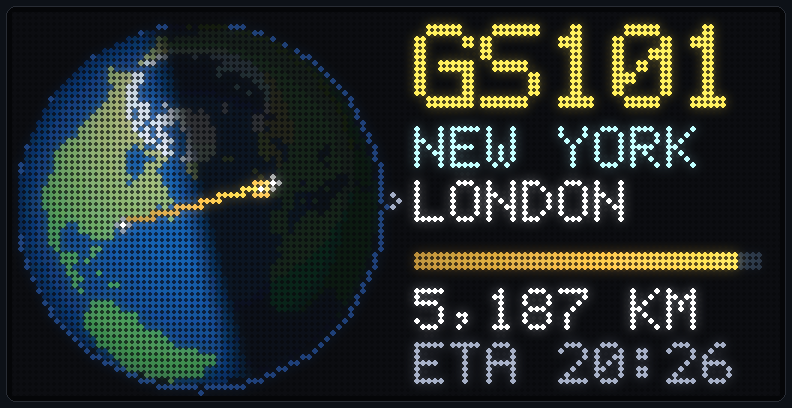
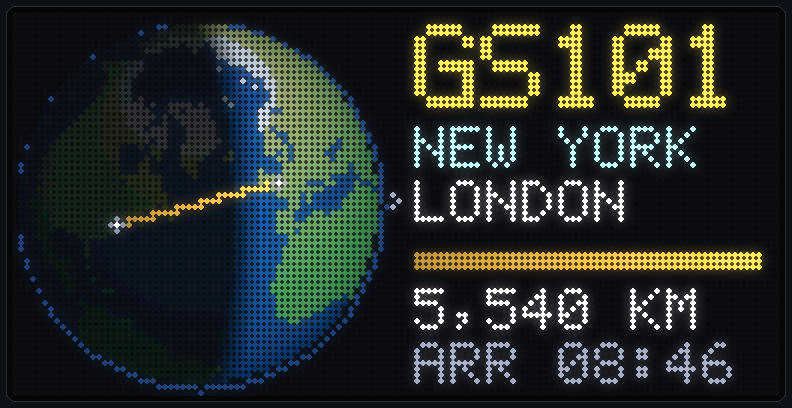
Docs: 5.0 recorded from the board
The showcase GIF (now with the globe after the landing), the clips and
stills re-cut for the longer timeline, a globe still, and the web page
shots with a Spotter tab.

diff --git a/tools/webui_preview.py b/tools/webui_preview.py
@@ -4,7 +4,7 @@ Serve the board's web page on this computer with made-up data, for
 screenshots and for working on the page without a board.
 
   python tools/webui_preview.py                 # http://127.0.0.1:8765/
-  python tools/webui_preview.py --shots         # docs/webui-desktop.png, webui-alerts.png, webui-phone.png
+  python tools/webui_preview.py --shots         # docs/webui-desktop.png, -alerts, -spotter, -phone
 
 The page is firmware/web/index.html with the brand mark filled in, exactly as
 the board serves it. The API answers with
@@ -38,7 +38,7 @@ def page_html():
 
 
 CONFIG = {
-    'tar1090_host': '', 'center_lat': 51.47, 'center_lon': -0.4543, 'home_lat': 0, 'home_lon': 0,
+    'tar1090_host': '', 'center_lat': 51.47, 'center_lon': -0.4543, 'home_lat': 51.5007, 'home_lon': -0.1246,
     'radius_km': 20, 'min_altitude_ft': 100, 'display_brightness': 128,
     'text_color_r': 255, 'text_color_g': 255, 'text_color_b': 255,
     'display_nearest_only': False, 'display_border': True, 'show_flight_number_with_logo': True,
@@ -46,14 +46,16 @@ CONFIG = {
     'screen_facing': 'S', 'display_flip': False, 'night_mode_enabled': True,
     'night_start_minutes': 1320, 'night_end_minutes': 420, 'night_brightness': 38, 'utc_offset_minutes': 0,
     'fetch_interval_seconds': 30, 'local_fetch_interval_seconds': 5, 'display_cycle_seconds': 10,
-    'card_lead_seconds': 120, 'interlude_seconds': 15, 'screens': 31,
+    'card_lead_seconds': 120, 'interlude_seconds': 15, 'screens': 95, 'route_cities': True,
     'aeroapi_cache_ttl_seconds': 1800, 'aeroapi_fail_cache_ttl_seconds': 300,
     'opensky_client_id': '', 'opensky_client_secret': '', 'opensky_priority': False,
     'use_community_feeds': True, 'aeroapi_key': '', 'night_follow_sun': True,
-    'ntfy_topic': 'glideslope-k3x9q2m7wt', 'notify_mask': 63,
+    'ntfy_topic': 'glideslope-k3x9q2m7wt', 'ntfy_token': '', 'notify_mask': 127,
+    'overhead_km': 2.0, 'overhead_all': False, 'watchlist': 'G-CIVA, B74*, A388, RRR*',
+    'mqtt_host': '192.168.1.20', 'mqtt_port': 1883, 'mqtt_user': 'glideslope', 'mqtt_pass': '***',
 }
 STATUS = {
-    'version': 'v4.0.0', 'built': 'Oct  9 2026 10:00:00', 'uptime_s': 86400, 'last_reset': 'power on',
+    'version': 'v5.0.0', 'built': 'Oct 19 2026 10:00:00', 'uptime_s': 86400, 'last_reset': 'power on',
     'heap_free': 84000, 'heap_max_block': 55000, 'heap_min_free': 18000, 'display_frames': 1700000,
     'web_requests': 5200, 'metar': 'METAR EGLL 071650Z 36011KT 9999 FEW030 12/06 Q1012 NOSIG',
     'airport': 'EGLL', 'airport_name': 'HEATHROW', 'airport_lat': 51.47, 'airport_lon': -0.4543, 'airport_pack': False,
@@ -181,6 +183,7 @@ def main():
     threading.Thread(target=srv.serve_forever, daemon=True).start()
     shoot(url, str(ROOT / 'docs' / 'webui-desktop.png'), 1280, 820, 1)
     shoot(url + '#alerts', str(ROOT / 'docs' / 'webui-alerts.png'), 1280, 820, 1)
+    shoot(url + '#spotter', str(ROOT / 'docs' / 'webui-spotter.png'), 1280, 820, 1)
     phone = ROOT / 'docs' / 'webui-phone.png'
     shoot(url + 'phone', str(phone), 600, 1100, 2)
     from PIL import Image

diff --git a/tools/record_shots.py b/tools/record_shots.py
@@ -30,8 +30,8 @@ ROOT = Path(__file__).resolve().parent.parent
 DOCS = ROOT / 'docs'
 
 # Showcase times (s), matching NeoMatrixDisplay::stepShowcase.
-CLIPS = {'flyacross.gif': (0.0, 2.4), 'landing.gif': (9.0, 12.6), 'takeoff.gif': (39.5, 42.9)}
-STILLS = {'arrivals.png': 24.5, 'weather.png': 29.5, 'stats.png': 34.3, 'holding.png': 38.5}
+CLIPS = {'flyacross.gif': (0.0, 2.4), 'landing.gif': (9.0, 12.6), 'takeoff.gif': (44.5, 47.9)}
+STILLS = {'globe.png': 19.5, 'arrivals.png': 29.0, 'weather.png': 34.0, 'stats.png': 39.3, 'holding.png': 43.5}
 
 
 def save_gif(frames, path, fps=20):

diff --git a/README.md b/README.md
@@ -53,22 +53,25 @@ repository (see [Airline logos](#airline-logos)).
 | --- | --- |
 | ![Today's busiest airlines in their colours](docs/stats-airlines.png) | ![Today's commonest aircraft types](docs/stats-types.png) |
 
-The globe, overhead, stats pages and the fireworks below are drawn by the
-firmware's own code on a desktop (`tools/host_build.py render`), with a
-made-up day of traffic.
+The overhead pass, the top airlines and types pages and the fireworks
+below are drawn by the firmware's own code on a desktop
+(`tools/host_build.py render`), with a made-up day of traffic; the rest
+are the board's own frames.
 
 ### The web page
 
 Every board serves a page at `http://glideslope.local/`: a live mirror of the
 panel drawn as glowing LEDs, what's on it now, the animations on demand, every
 setting in tabs (display with a switch for each screen, airport, night, data,
-phone alerts, system, log), firmware updates and a log.
+spotter, phone alerts and Home Assistant, system, log), firmware updates and a log.
 
 | Desktop | Phone |
 | --- | --- |
 | <img src="docs/webui-desktop.png" alt="The Glideslope web page on a desktop" width="560"> | <img src="docs/webui-phone.png" alt="The Glideslope web page on a phone" width="220"> |
 
-<p align="center"><img src="docs/webui-alerts.png" alt="The Alerts tab: an ntfy topic and the events to be told about" width="560"></p>
+| Alerts | Spotter |
+| --- | --- |
+| <img src="docs/webui-alerts.png" alt="The Alerts tab: an ntfy topic, the events to be told about, Home Assistant" width="420"> | <img src="docs/webui-spotter.png" alt="The Spotter tab: overhead distance and the watchlist" width="420"> |
 
 ## What it shows
 
